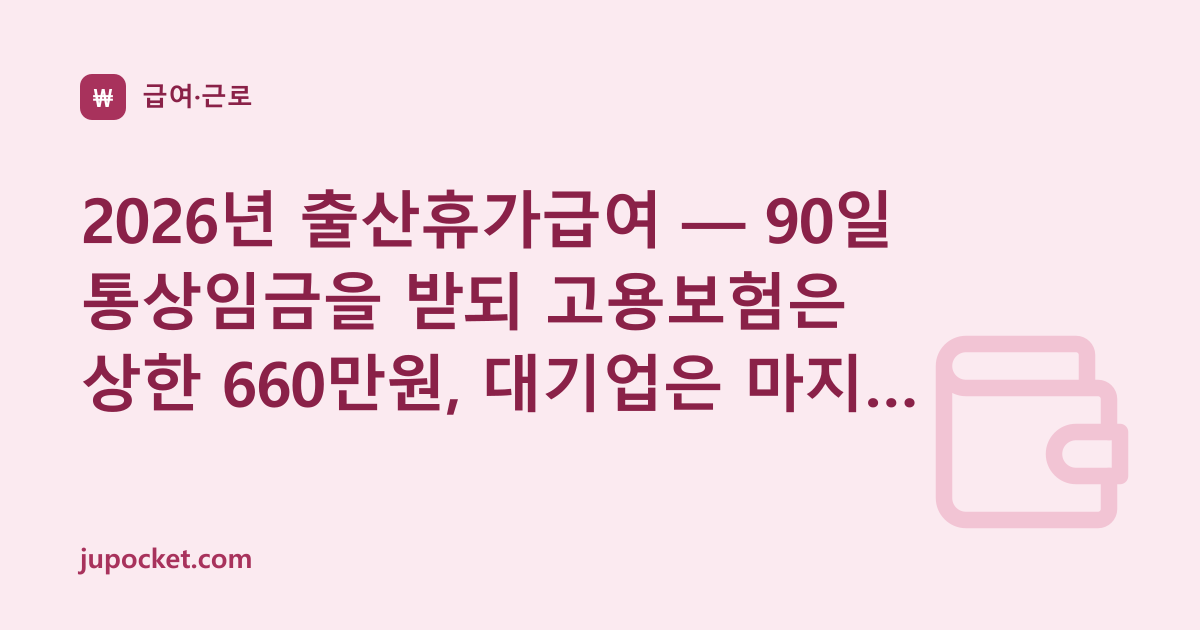
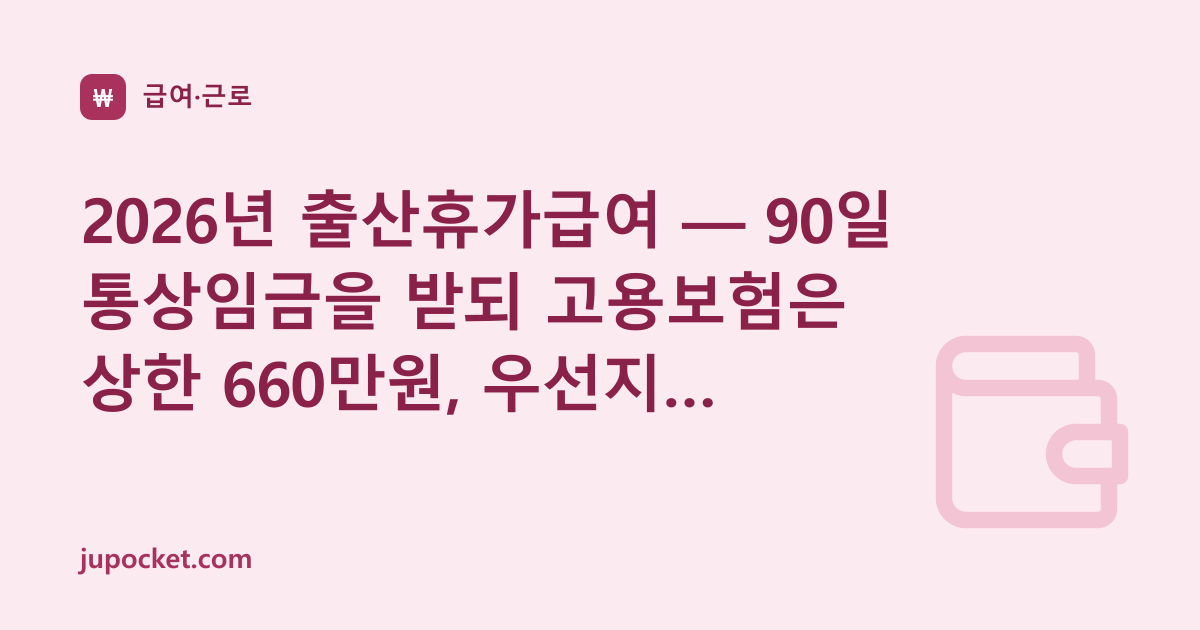
fix: 육아휴직 — 우선지원 대상기업 기준표, 사후지급 폐지 근거, '대기업' 표현
- 출산휴가급여: 제목·본문의 '대기업'을 '우선지원 대상기업이 아니면'으로, 시행령 제12조·별표 1 업종별 기준표 추가
- 육아휴직급여 허브: 사후지급(75% 휴직 중·25% 복직 6개월 뒤)이 2025. 1. 1.부터 100% 매월 지급으로 바뀐 것을
  대통령령 제35100호 개정이유로 확인해 그대로 적었다
- 육아휴직 기간: '자녀 1명당' → 조문 문언대로 '같은 자녀에 대해'

Changed region(s): [[0.4008, 0.5429, 0.7708, 0.6635]]

diff --git a/src/data/clusters.ts b/src/data/clusters.ts
@@ -284,7 +284,7 @@ export const clusters: Cluster[] = [
       { href: "/guide/parental-leave-pay-calculator/", title: "육아휴직 급여 계산기", kind: "calc", icon: "calculator", blurb: "월 통상임금·휴직 개월·6+6·한부모 → 달마다 받는 금액과 총액" },
       { href: "/guide/parental-leave-pay-apply/", title: "육아휴직급여 신청 — 휴직 시작 1개월 뒤부터 끝난 뒤 12개월 안에 해야 합니다", kind: "guide", icon: "wallet", year: 2026 },
       { href: "/guide/parental-leave-period/", title: "육아휴직 기간 — 1년, 부모가 각각 3개월 이상 쓰면 6개월 더해 1년 6개월입니다", kind: "guide", icon: "wallet", year: 2026 },
-      { href: "/guide/maternity-leave-pay/", title: "출산휴가급여 — 90일 통상임금을 받되 고용보험은 상한 660만원, 대기업은 마지막 30일분만 줍니다", kind: "guide", icon: "wallet", year: 2026 },
+      { href: "/guide/maternity-leave-pay/", title: "출산휴가급여 — 90일 통상임금을 받되 고용보험은 상한 660만원, 우선지원 대상기업이 아니면 마지막 30일분만 줍니다", kind: "guide", icon: "wallet", year: 2026 },
     ],
   },
   {
